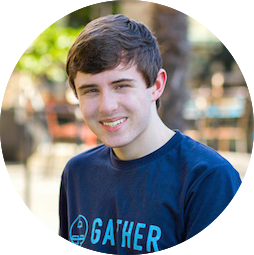
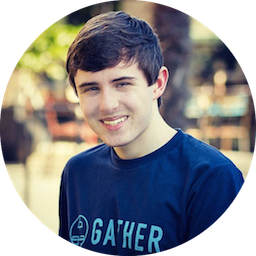
Updated picture with correct size

diff --git a/styles/main.css b/styles/main.css
@@ -149,9 +149,9 @@ html, body {
 
 #bleed {
     position: relative;
-    top: -127px;
+    top: -128px;
     left: 50%;
-    margin-left: -127px;
+    margin-left: -128px;
     width: 254px;
     height: 255px;
     margin-bottom:-130px;
